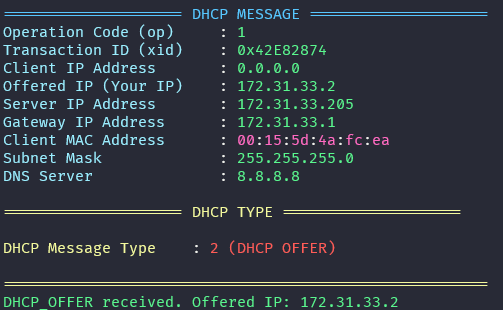
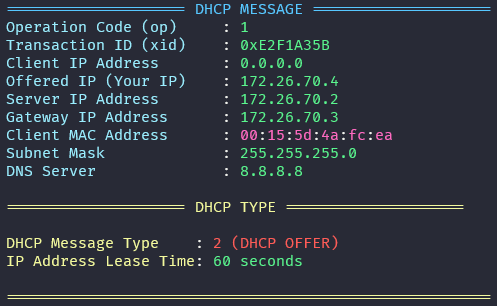
Lease Time Printed
Now the lease time of the IP address is being printed with the rest of the message

Changed region(s): [[0.0, 0.0, 0.996, 0.5882], [0.0, 0.7647, 0.9658, 1.0], [0.0, 0.6471, 0.9356, 0.7059]]

diff --git a/src/server.c b/src/server.c
@@ -81,8 +81,14 @@ void send_dhcp_offer(int socket_fd, struct sockaddr_in *client_addr, dhcp_messag
         offer_message.options[10] = 4;
         inet_pton(AF_INET, global_dns_ip, &offer_message.options[11]);
 
+        // Add lease time (option 51)
+        offer_message.options[15] = 51;
+        offer_message.options[16] = 4;
+        uint32_t lease_time = htonl(LEASE_TIME);
+        memcpy(&offer_message.options[17], &lease_time, 4);
+
         // End of options
-        offer_message.options[15] = 255;
+        offer_message.options[21] = 255;
     }
 
     // Send DHCP_OFFER or DHCP_NAK message

diff --git a/src/data/message.c b/src/data/message.c
@@ -208,7 +208,7 @@ void print_dhcp_message(const dhcp_message_t *msg, bool is_client){
             break;
 
         case 51: // Lease Time
-            printf(YELLOW "IP Address Lease Time" RESET ": " GREEN "%d\n" RESET, ntohl(*(uint32_t *)&options[i]));
+            printf(YELLOW "IP Address Lease Time" RESET ": " GREEN "%d seconds\n" RESET, ntohl(*(uint32_t *)&options[i]));
             break;
 
         case 53: // DHCP Message Type

diff --git a/src/client.c b/src/client.c
@@ -78,9 +78,6 @@ void send_dhcp_request(int sockfd, struct sockaddr_in *server_addr, dhcp_message
 
 
 void handle_dhcp_offer(int sockfd, struct sockaddr_in *server_addr, dhcp_message_t *msg) {
-    // Set the message type to DHCP_REQUEST
-    set_dhcp_message_type(msg, DHCP_REQUEST);
-
     send_dhcp_request(sockfd, server_addr, msg);   
 }
 

diff --git a/README.md b/README.md
@@ -78,7 +78,7 @@ They work as expected, where the server assigns IP addresses to clients that req
 
 - [x] **Client Implementation**: We manage to implement a client in C language. 
 - [x] **Requesting IP Address**: The client sends a DHCP Discover message to the server to request an IP address.
-- [x] **Receiving IP Address**: The client receives an IP address and network parameters from the server in a DHCP Offer message. Furthermore, the client prints the received IP address and network parameters in the console. The elements printed are: the client IP address, the offered IP address, the server IP address, the subnet mask, the default gateway, the DNS server and the client MAC address.
+- [x] **Receiving IP Address**: The client receives an IP address and network parameters from the server in a DHCP Offer message. Furthermore, the client prints the received IP address and network parameters in the console. The elements printed are: the client IP address, the offered IP address, the server IP address, the subnet mask, the default gateway, the DNS server, the client MAC address and the lease time in seconds.
 ![Message Printing for Client](./public/client_print.png)
 - [x] **IP Address Lease Management**: The client manages the lease of the assigned IP address by renewing the lease with the server when the lease time is about to expire.
 - [x] **IP Address Release**: The client releases the assigned IP address when it is no longer needed by sending a DHCP Release message to the server. The Release message is sent when the execution of the client is finished. 
